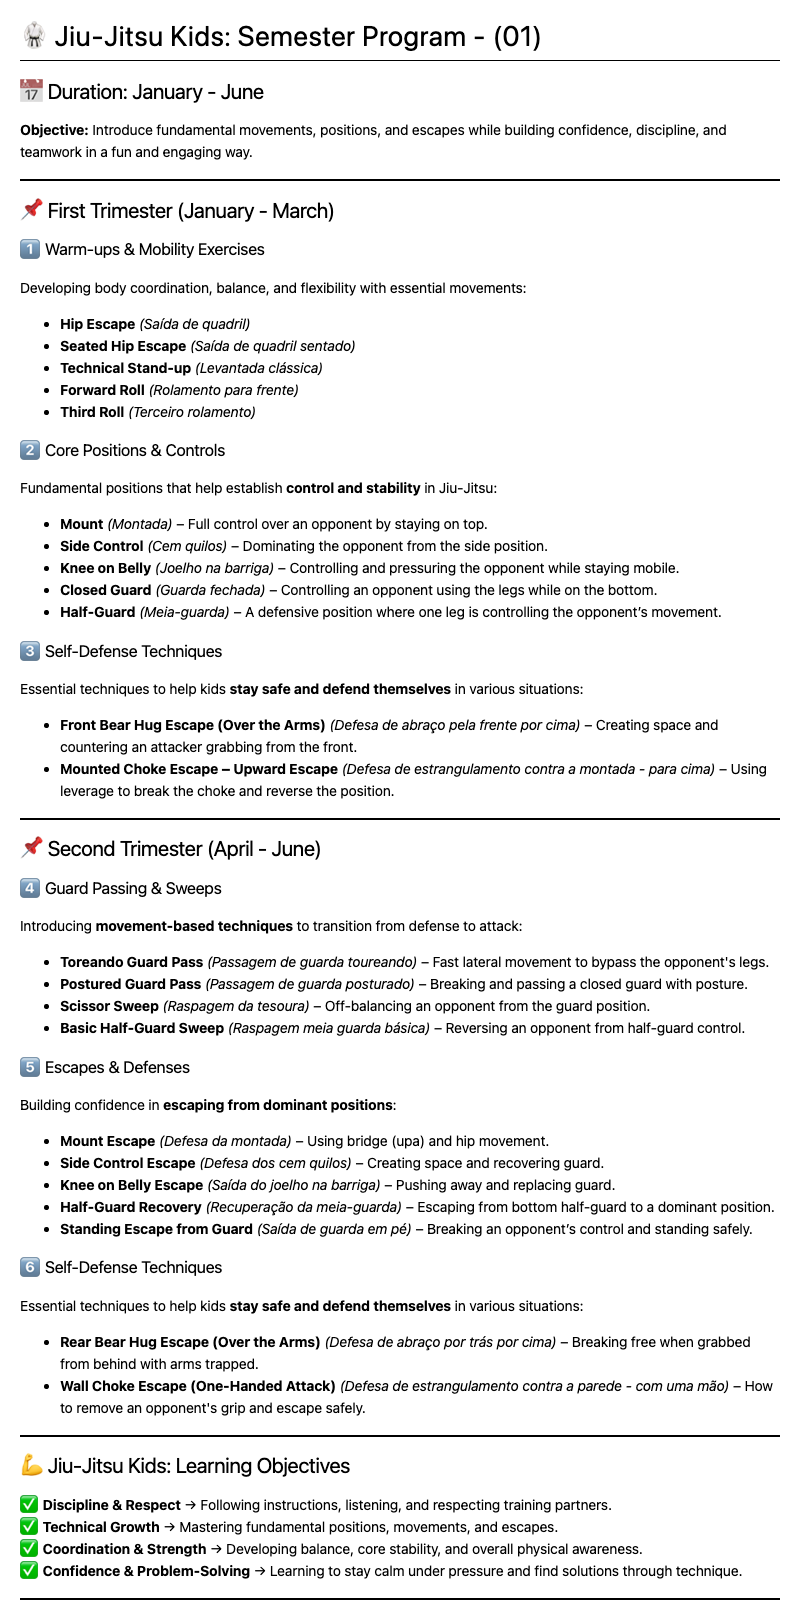
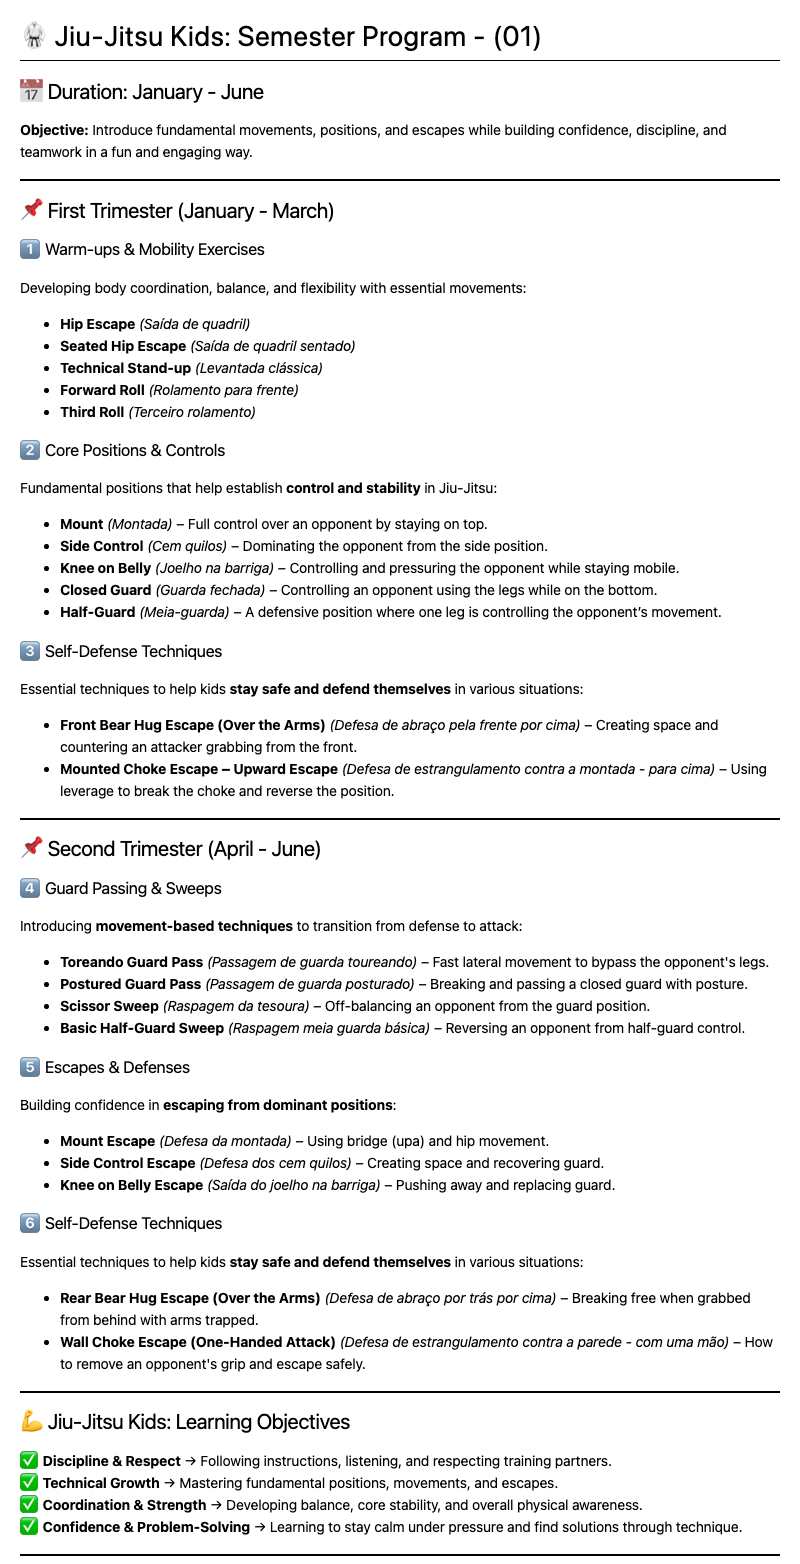
chore:save

diff --git a/README.md b/README.md
@@ -49,8 +49,6 @@ Building confidence in **escaping from dominant positions**:
 - **Mount Escape** *(Defesa da montada)* – Using bridge (upa) and hip movement.  
 - **Side Control Escape** *(Defesa dos cem quilos)* – Creating space and recovering guard.  
 - **Knee on Belly Escape** *(Saída do joelho na barriga)* – Pushing away and replacing guard.  
-- **Half-Guard Recovery** *(Recuperação da meia-guarda)* – Escaping from bottom half-guard to a dominant position.  
-- **Standing Escape from Guard** *(Saída de guarda em pé)* – Breaking an opponent’s control and standing safely.  
 
 ### 6⃣ Self-Defense Techniques  
 Essential techniques to help kids **stay safe and defend themselves** in various situations:  
